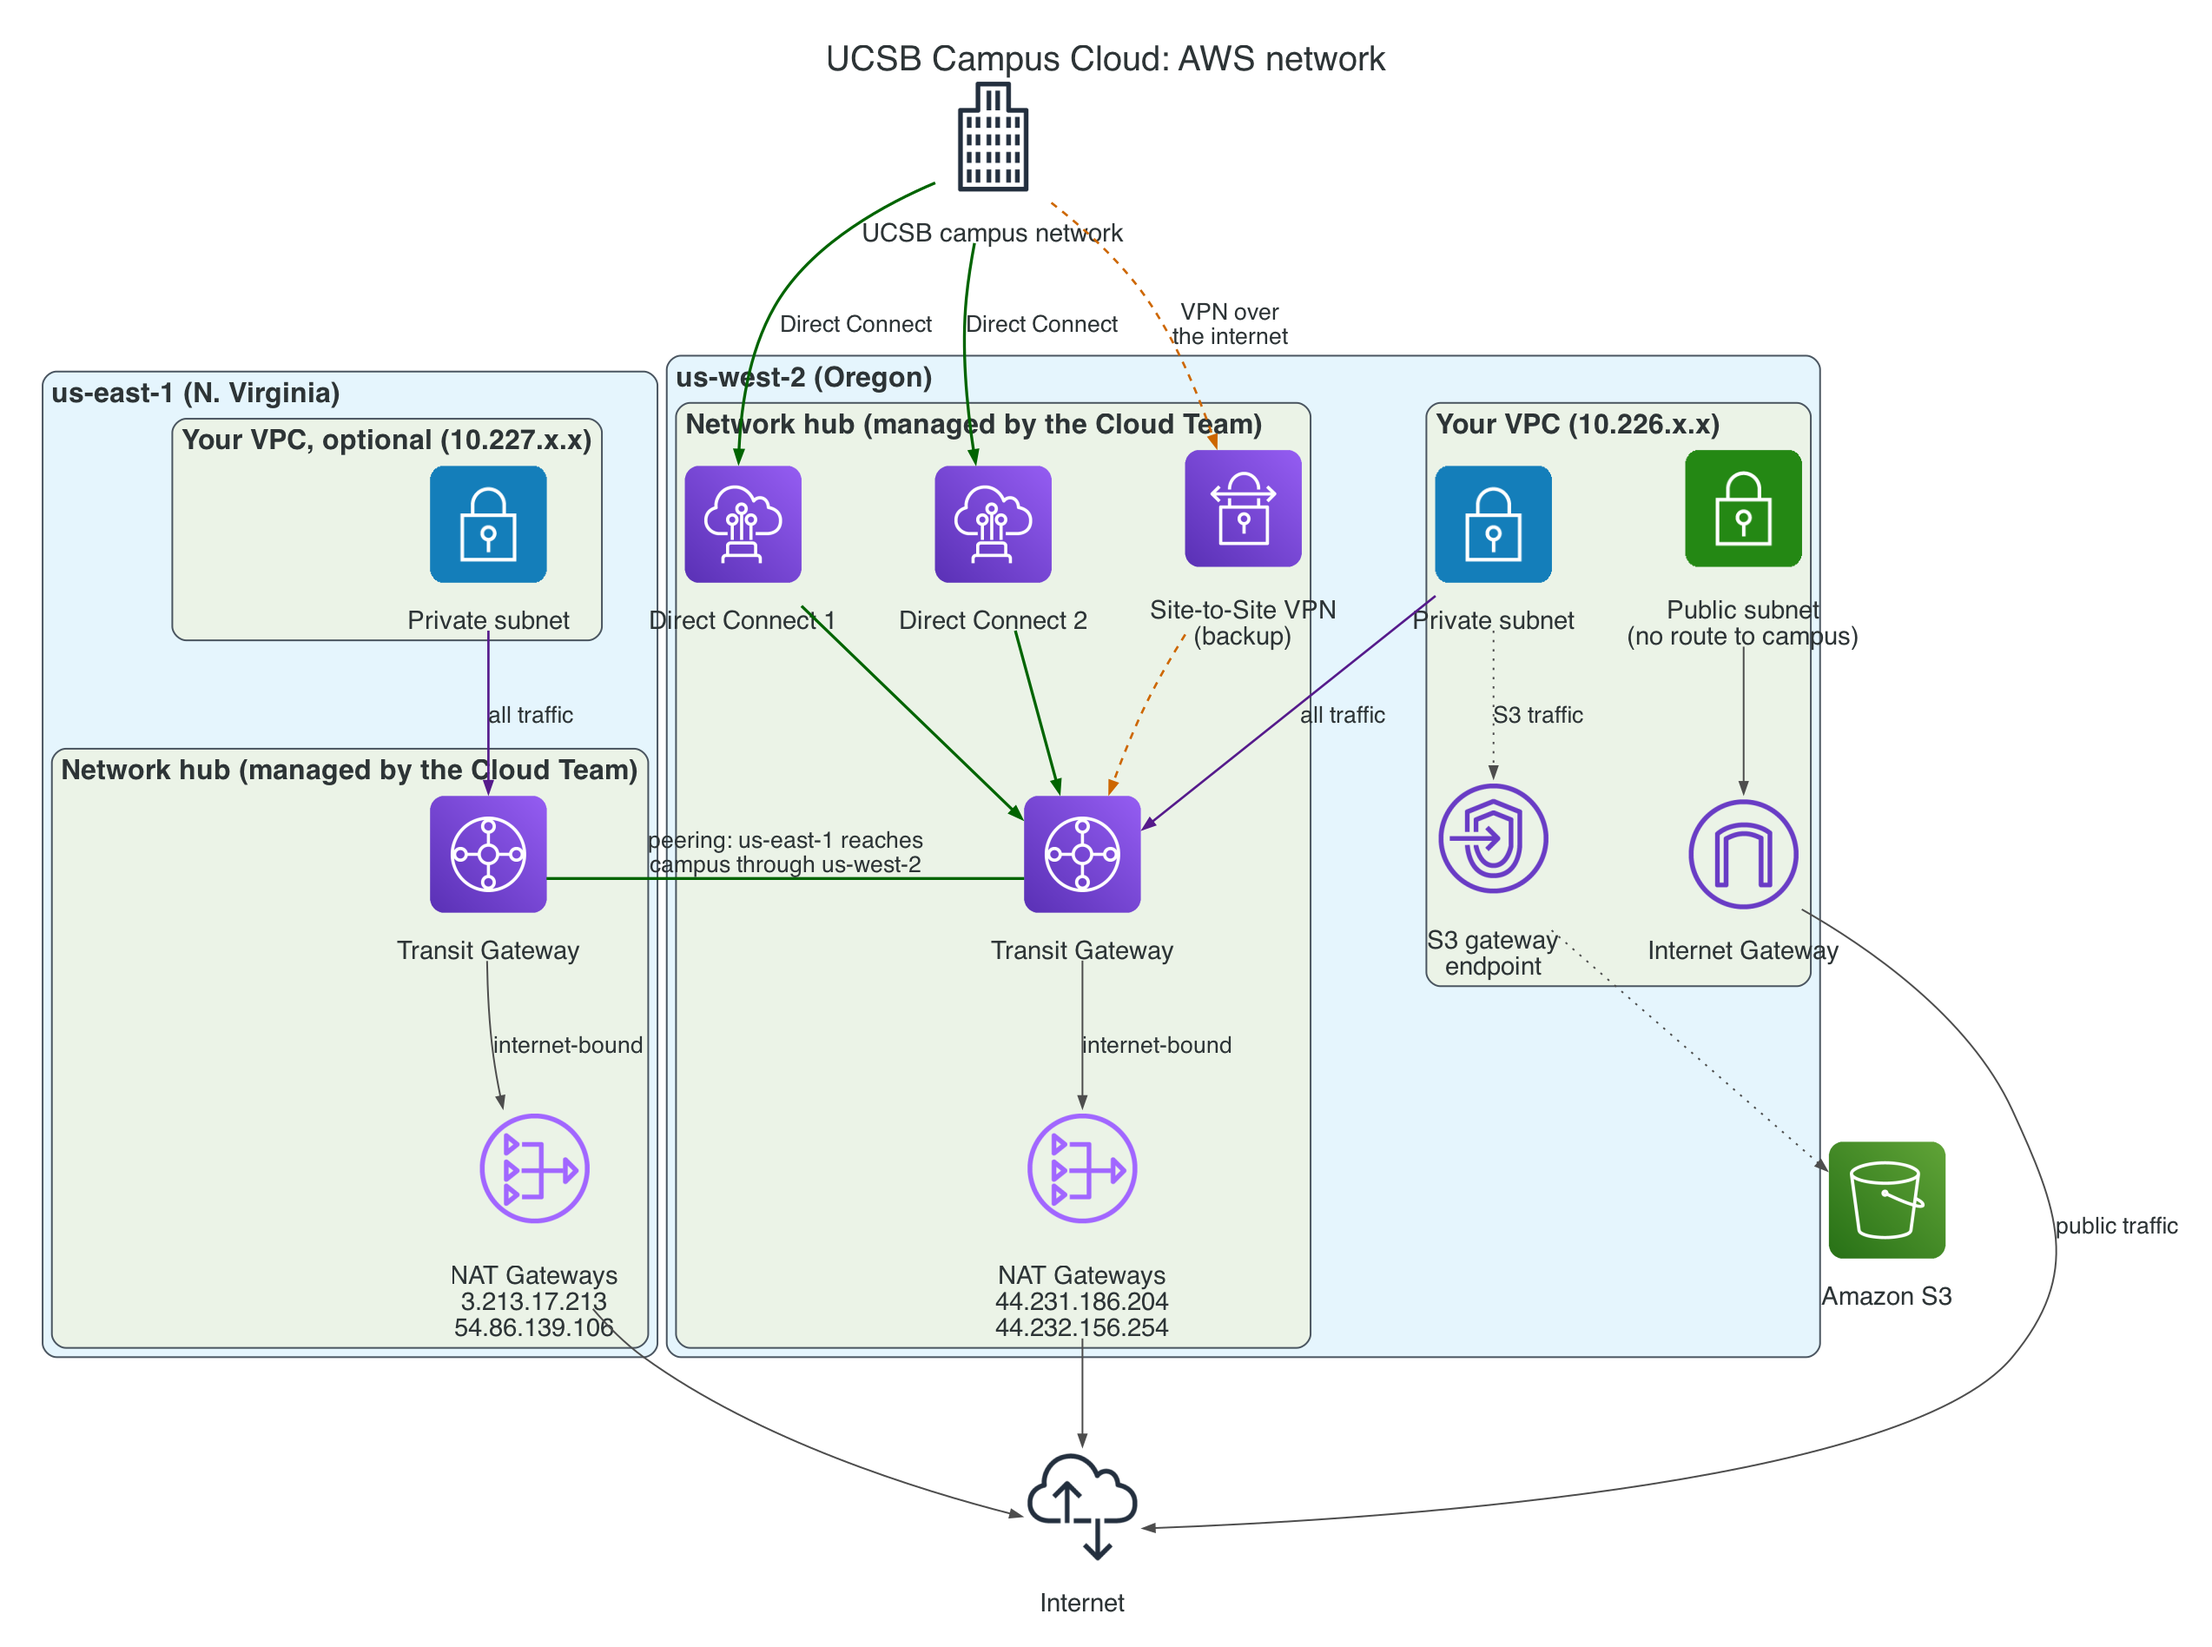
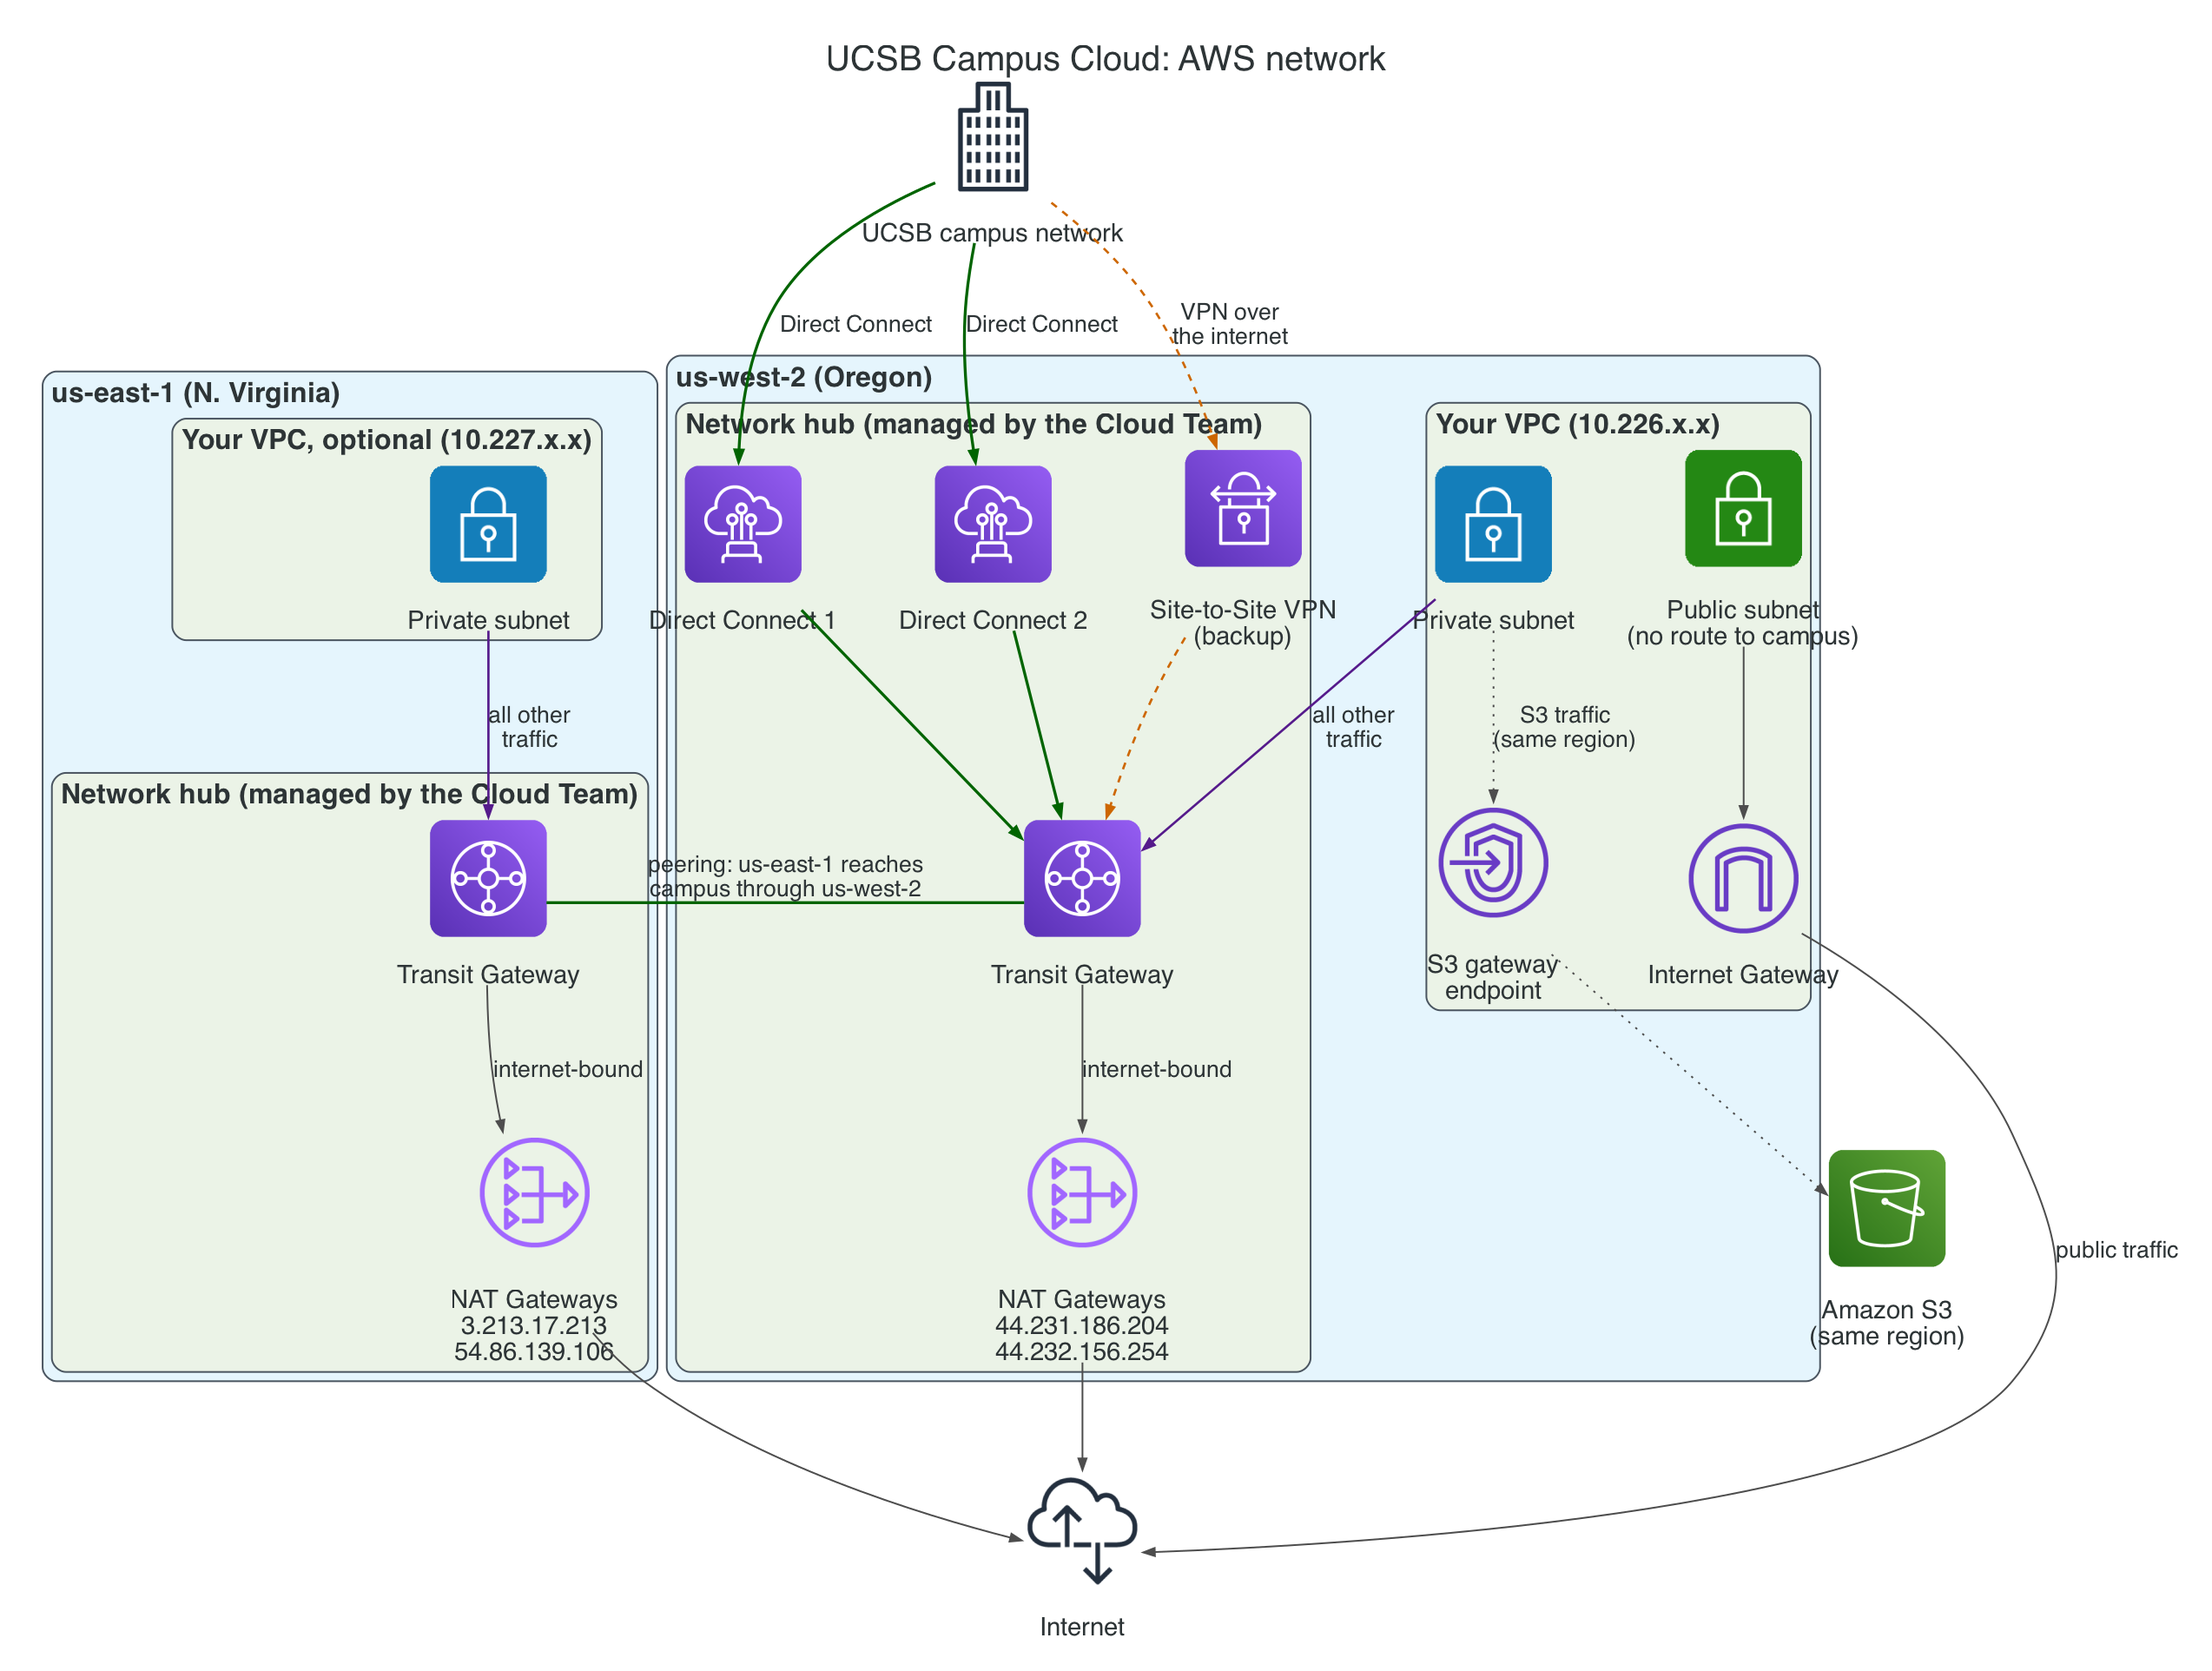
Clarify S3 same-region traffic in AWS networking
Explicitly distinguish between same-region and cross-region S3 traffic in the networking documentation and diagram. Same-region S3 uses a gateway endpoint and bypasses the NAT Gateway, while cross-region S3 goes through NAT like other internet traffic.

Also restructured the "Requesting Networking Changes" section for clarity, clarified private subnet routing behavior, and fixed a glossary link anchor format.

diff --git a/_resources/aws_network_diagram.py b/_resources/aws_network_diagram.py
@@ -78,7 +78,7 @@ with Diagram("UCSB Campus Cloud: AWS network", filename=out, outformat="png",
     campus = icon(GenericOfficeBuilding, "UCSB campus network")
 
     internet = icon(InternetAlt1, "Internet")
-    s3 = icon(SimpleStorageServiceS3, "Amazon S3")
+    s3 = icon(SimpleStorageServiceS3, "Amazon S3\n(same region)")
 
     # Campus links: both Direct Connect connections and the VPN end in us-west-2 only
     campus >> Edge(label="Direct Connect", **DX) >> [dx1, dx2]
@@ -88,14 +88,14 @@ with Diagram("UCSB Campus Cloud: AWS network", filename=out, outformat="png",
     tgw_w - Edge(label="peering: us-east-1 reaches\ncampus through us-west-2",
                  constraint="false", color="darkgreen", penwidth="2.5", fontsize="20") - tgw_e
 
-    # Private subnets send all traffic to the Transit Gateway
-    priv_w >> Edge(label="all traffic", **PRIV) >> tgw_w
-    priv_e >> Edge(label="all traffic", **PRIV) >> tgw_e
+    # Private subnets send everything else leaving the VPC to the Transit Gateway
+    priv_w >> Edge(label="all other\ntraffic", **PRIV) >> tgw_w
+    priv_e >> Edge(label="all other\ntraffic", **PRIV) >> tgw_e
 
     # Central egress to the internet
     tgw_w >> Edge(label="internet-bound", **NET) >> nat_w >> Edge(**NET) >> internet
     tgw_e >> Edge(label="internet-bound", **NET) >> nat_e >> Edge(**NET) >> internet
 
-    # Public subnets go straight to the internet; S3 traffic skips the NAT
+    # Public subnets go straight to the internet; same-region S3 traffic skips the NAT
     pub_w >> Edge(**NET) >> igw_w >> Edge(label="public traffic", **NET) >> internet
-    priv_w >> Edge(label="S3 traffic", style="dotted", **NET) >> s3e >> Edge(style="dotted", **NET) >> s3
+    priv_w >> Edge(label="S3 traffic\n(same region)", style="dotted", **NET) >> s3e >> Edge(style="dotted", **NET) >> s3

diff --git a/docs/aws/networking.md b/docs/aws/networking.md
@@ -43,12 +43,21 @@ through the Transit Gateway — you do not need to configure this yourself.
 
 ## Requesting Networking Changes
 
-All persistent networking changes (a new IP address range, also called a
-Classless Inter-Domain Routing (CIDR) block; a new Transit Gateway attachment;
-Transit Gateway routing changes) require a
-[ServiceNow ticket](https://ucsb.service-now.com/it?id=it_sc_cat_item&sys_id=c60e6bf2dbf398900c2e38f0ad961908&sysparm_category=eb1eaff2dbf398900c2e38f0ad9619d5).
+Open a
+[ServiceNow ticket](https://ucsb.service-now.com/it?id=it_sc_cat_item&sys_id=c60e6bf2dbf398900c2e38f0ad961908&sysparm_category=eb1eaff2dbf398900c2e38f0ad9619d5)
+for any lasting change to how your VPC connects to other networks:
+
+* **More IP addresses** for your VPC (a new IP address range, also called a
+  Classless Inter-Domain Routing (CIDR) block).
+* **Connecting a VPC** to the Transit Gateway, so it can reach campus.
+* **Changing which networks your VPC can reach** through the Transit Gateway,
+  such as campus or another VPC. The Cloud Team makes these changes to the
+  Transit Gateway's routing, which works like a shared address book of where to
+  send traffic.
+
 Day-to-day changes to Security Groups and network access control lists (NACLs)
-within your account do not require a ticket.
+within your account do not need a ticket. To open access on the campus side,
+see [Campus Network Firewall](#campus-network-firewall).
 
 ---
 
@@ -71,8 +80,9 @@ not the whole Landing Zone range (`10.226.0.0/15`).
 
 ## DNS
 
-* Your VPC looks up names with the Domain Name System (DNS) service that AWS
-  provides. It finds public names, including public `ucsb.edu` names.
+* VPCs the Cloud Team creates look up names with the Domain Name System (DNS)
+  service that AWS provides. It finds public names, including public
+  `ucsb.edu` names.
 * Private hosted zones in Route 53 are available for internal service discovery.
 * There is no UCSB-managed internal DNS zone shared by default. Each team
   manages its own private hosted zones.
@@ -171,10 +181,11 @@ vendor allowlisting.
 The diagram shows two regions. In us-west-2, the campus network connects to
 the Cloud Team's Transit Gateway through two Direct Connect connections, with a
 Site-to-Site VPN as backup. The us-east-1 Transit Gateway reaches campus
-through us-west-2. Private subnets in your VPC send all traffic to the Transit
-Gateway, which sends internet traffic out through the shared NAT Gateways.
-Public subnets use your VPC's own Internet Gateway and have no route to campus.
-Amazon S3 traffic from private subnets uses an S3 gateway endpoint. The
+through us-west-2. Private subnets in your VPC send traffic that leaves the VPC
+to the Transit Gateway, which sends internet traffic out through the shared NAT
+Gateways. The exception is Amazon S3 in the same region, which private subnets
+reach through an S3 gateway endpoint. Public subnets use your VPC's own
+Internet Gateway and have no route to campus. The
 sections [How to Connect to Campus](#how-to-connect-to-campus),
 [How Traffic Flows](#how-traffic-flows), and
 [Egress IP Addresses](#egress-ip-addresses) give the details.
@@ -203,21 +214,25 @@ break routing.
 * **Public subnet** traffic in your account goes directly through the account's
   Internet Gateway — it does not travel through the Transit Gateway, so it
   cannot reach campus or other Campus Cloud VPCs over private addresses.
-* **Private subnet** traffic routes to the Transit Gateway, which sends it
+* **Private subnet** traffic that leaves your VPC routes to the Transit
+  Gateway, which sends it
   to one of:
   * The central **NAT Gateway** (for internet-bound traffic),
   * **Direct Connect / VPN** (for campus-bound traffic), or
   * Another Campus Cloud VPC.
-* **Amazon S3** traffic from private subnets uses a
+* **Amazon S3** traffic from private subnets to buckets in the same region
+  uses a
   [gateway endpoint](https://docs.aws.amazon.com/vpc/latest/privatelink/vpc-endpoints-s3.html)
   in your VPC. It stays on the AWS network and does not use the NAT Gateway.
+  Requests to buckets in another region go through the NAT Gateway like other
+  internet traffic.
 
 ### Egress IP Addresses
 
 Traffic leaving your private subnets to the internet appears to come from
 centrally managed NAT Gateway IP addresses.
 
-{% include alert.html type="warning" title="These IPs may change" content="The NAT Gateway addresses change only if the Cloud Team replaces the NAT Gateways, which is rare. Before you use them for vendor allowlisting or firewall rules, confirm the current list with the Cloud Team via a ServiceNow ticket. Amazon S3 requests from private subnets do not come from these addresses (see How Traffic Flows)." %}
+{% include alert.html type="warning" title="These IPs may change" content="The NAT Gateway addresses change only if the Cloud Team replaces the NAT Gateways, which is rare. Before you use them for vendor allowlisting or firewall rules, confirm the current list with the Cloud Team via a ServiceNow ticket. Amazon S3 requests from private subnets to buckets in the same region do not come from these addresses; requests to buckets in another region do (see How Traffic Flows)." %}
 
 | Region | NAT Gateway IPs |
 |---|---|

diff --git a/pages/glossary.md b/pages/glossary.md
@@ -57,6 +57,6 @@ that need a campus-specific definition.
 | **Tags / Labels** | Key-value pairs used for billing attribution, compliance, and governance. AWS and Azure call them *Tags* and attach them to resources. GCP uses two systems, both set on the project: required *Resource Manager Tags* (governance and cost attribution) and optional *project labels* (cost attribution only). See [Tagging & Labels]({{ "/docs/general/tagging" | relative_url }}). |
 | **UC Enterprise Discount** | UC system-wide pricing agreements with cloud providers (AWS EDP, Azure EA, GCP negotiated rates). Applied automatically to Campus Cloud accounts. |
 | **UCSB SSO** | Single sign-on with your UCSB netID. AWS uses Shibboleth SAML; Azure and GCP use Entra ID federation. |
-| **VPC Family** | A preset network size and layout you pick when you launch the AWS Simple VPC product, named like `n2.medium.private`: the number of subnets (`n1`, `n2`, `n4`), the total IP addresses (`small` = 32 up to `xlarge` = 256), and whether the subnets are public, private, or mixed. Defined by the Cloud Team, not by AWS. See [VPC Families]({{ "/docs/aws/networking/#vpc-families" | relative_url }}). |
+| **VPC Family** | A preset network size and layout you pick when you launch the AWS Simple VPC product, named like `n2.medium.private`: the number of subnets (`n1`, `n2`, `n4`), the total IP addresses (`small` = 32 up to `xlarge` = 256), and whether the subnets are public, private, or mixed. Defined by the Cloud Team, not by AWS. See [VPC Families]({{ "/docs/aws/networking#vpc-families" | relative_url }}). |
 | **Wiz** | A cloud security posture management (CSPM) tool for agentless vulnerability and misconfiguration scanning. Available on all three providers; accounts are enrolled on an opt-in basis. See [Security]({{ "/docs/general/security/#wiz-cloud-security-posture-management" | relative_url }}). |
 | **WORM** | Write Once, Read Many — a storage mode that prevents stored data from being deleted or modified. Used for audit logs in GCP (3-year retention). |
